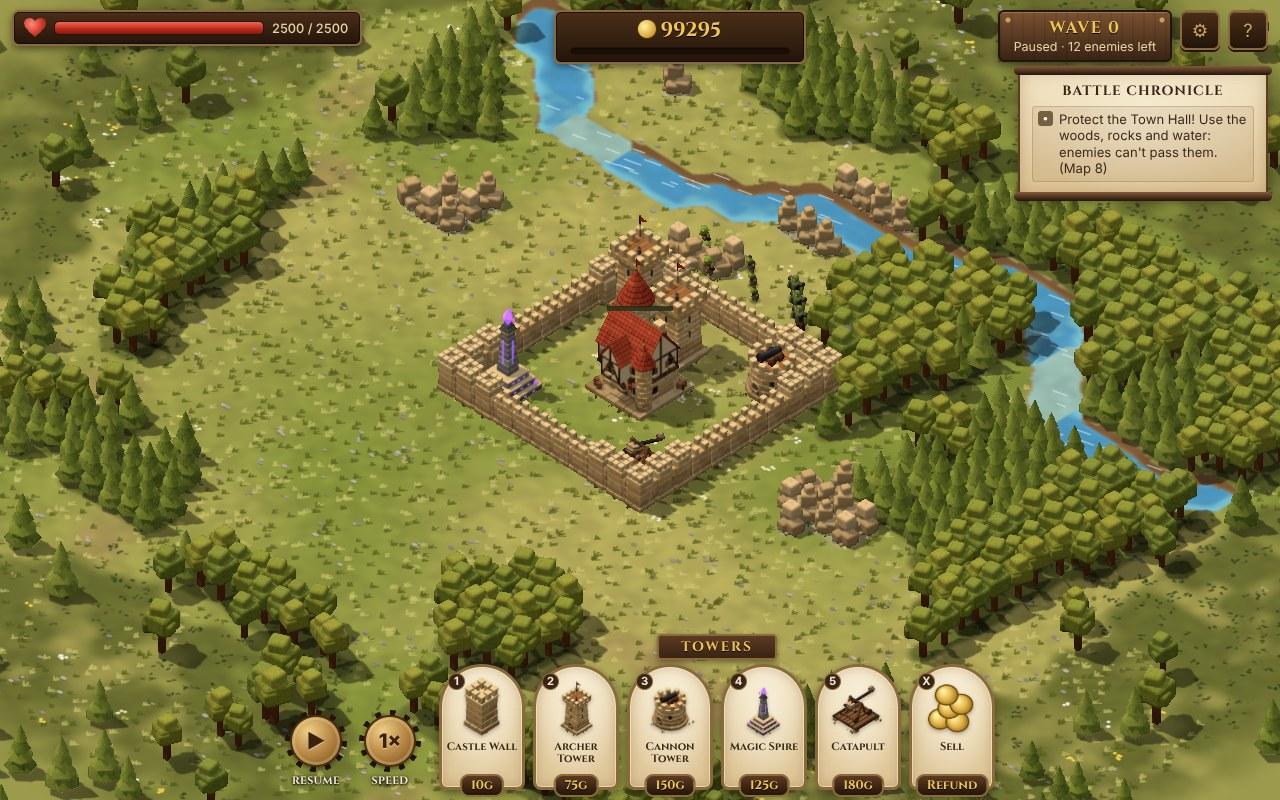
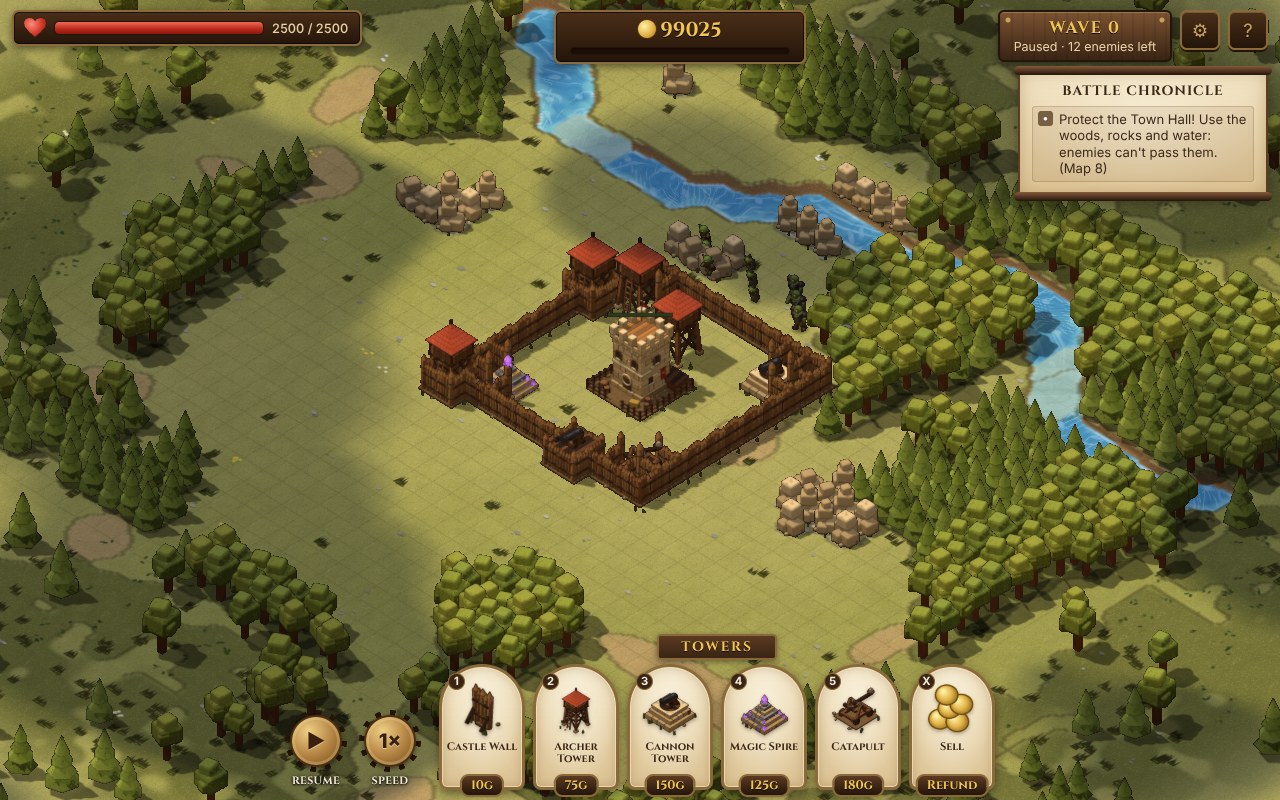
Grass after the reference: straw-olive, fine grain, faint tile grid, inked edges
The painted ground now follows the reference more closely:
- lighter, warmer straw-olive grass with only gentle large-scale variation
  (no blotchy mottling), plus a fine painted grain;
- a faint tile grid over the map, kept off the water;
- crisper forest-floor, gravel and bare-earth patches, inked where kinds of
  ground meet and along the shoreline;
- detail cut right back: dark spiky inked grass clumps gathered by woods,
  rocks and water, with flowers now rare.
README reference screenshots refreshed.

Claude-Session: https://claude.ai/code/session_013iFYB9zymLNq5vKRbhuUPS

diff --git a/src/render/terrainPainter.js b/src/render/terrainPainter.js
@@ -19,14 +19,16 @@ import { T } from '../sim/terrain.js';
 const BASE_PX = 8;
 const BANK_DEPTH = 0.45; // how far (in tiles) the far bank's wall shows above the water
 export const PAINT_BORDER = 14;
-export const OUTER_GROUND = '#9c9a4c';
+export const OUTER_GROUND = '#aaa25a';
 
+// Warm straw-olive grass like the reference, with ink for the edges between kinds of ground.
 const C = {
-  lush: [134, 146, 58],
-  dry: [178, 168, 88],
-  forestFloor: [104, 108, 46],
-  earth: [168, 140, 88],
-  gravel: [176, 162, 128],
+  lush: [158, 154, 74],
+  dry: [184, 172, 96],
+  forestFloor: [118, 116, 54],
+  earth: [190, 154, 100],
+  gravel: [182, 170, 136],
+  ink: [72, 64, 34],
   shore: [164, 140, 90],
   bankWall: [122, 88, 54],
   bankTop: [150, 112, 68],
@@ -128,6 +130,8 @@ export function paintTerrain(grid, { pxPerTile = 16, detail = 1, seed = 1, borde
   const mctx = maskCanvas.getContext('2d');
   const mask = mctx.createImageData(bw, bh);
   const col = [0, 0, 0];
+  // Per-pixel field values (after their wobble), kept to find the edges to ink afterwards.
+  const fields = { forest: new Float32Array(bw * bh), rock: new Float32Array(bw * bh), earth: new Float32Array(bw * bh), shore: new Float32Array(bw * bh) };
   for (let py = 0; py < bh; py++) {
     const v = (py + 0.5) / BASE_PX;
     const z = v - border;
@@ -136,24 +140,24 @@ export function paintTerrain(grid, { pxPerTile = 16, detail = 1, seed = 1, borde
       const x = u - border;
       const o = (py * bw + px) * 4;
 
-      // Grass: lush to dry by a broad noise, then a little fine mottling.
-      const dryness = noise.fbm(x * 0.07, z * 0.07);
+      // Grass: gently varying between lush and dry over large areas (the reference is nearly flat colour).
+      const dryness = noise.fbm(x * 0.05, z * 0.05);
       col[0] = C.lush[0];
       col[1] = C.lush[1];
       col[2] = C.lush[2];
-      mix(col, C.dry, smooth(0.38, 0.72, dryness));
+      mix(col, C.dry, smooth(0.3, 0.8, dryness) * 0.8);
       const wobble = noise.value(x * 0.85 + 11, z * 0.85 + 5) - 0.5;
       const fine = noise.value(x * 2.3, z * 2.3) - 0.5;
 
-      // Bare earth here and there (worn ground, never in lines).
-      const earth = noise.fbm(x * 0.16 + 70, z * 0.16 + 20, 2);
-      mix(col, C.earth, smooth(0.66, 0.8, earth) * 0.7);
+      // Bare earth patches here and there (worn ground, never in lines), with crisp edges.
+      const earth = noise.fbm(x * 0.16 + 70, z * 0.16 + 20, 2) + wobble * 0.04;
+      mix(col, C.earth, smooth(0.7, 0.73, earth) * 0.85);
 
       const f = sample(forest, u, v) + wobble * 0.35;
-      mix(col, C.forestFloor, smooth(0.3, 0.62, f));
+      mix(col, C.forestFloor, smooth(0.42, 0.5, f));
 
       const r = sample(rock, u, v) + wobble * 0.4;
-      mix(col, C.gravel, smooth(0.32, 0.55, r) * 0.8);
+      mix(col, C.gravel, smooth(0.4, 0.47, r) * 0.85);
 
       const w = sample(water, u, v) + wobble * 0.3;
       let m = 0;
@@ -181,8 +185,14 @@ export function paintTerrain(grid, { pxPerTile = 16, detail = 1, seed = 1, borde
         }
       }
 
-      // Light and shade mottling, then fade the border into the flat outer ground.
-      const shade = 1 + fine * 0.1 + wobble * 0.06;
+      const pi = py * bw + px;
+      fields.forest[pi] = f;
+      fields.rock[pi] = r;
+      fields.earth[pi] = earth;
+      fields.shore[pi] = w;
+
+      // A touch of light and shade, then fade the border into the flat outer ground.
+      const shade = 1 + fine * 0.04 + wobble * 0.03;
       const edge = Math.max(-x, -z, x - W, z - H);
       const fade = smooth(border - 5, border - 0.5, edge);
       col[0] *= shade;
@@ -198,6 +208,7 @@ export function paintTerrain(grid, { pxPerTile = 16, detail = 1, seed = 1, borde
       mask.data[o + 3] = m * 255;
     }
   }
+  inkEdges(img.data, fields, bw, bh, border * BASE_PX, W * BASE_PX, H * BASE_PX);
   bctx.putImageData(img, 0, 0);
   mctx.putImageData(mask, 0, 0);
 
@@ -209,18 +220,106 @@ export function paintTerrain(grid, { pxPerTile = 16, detail = 1, seed = 1, borde
   ctx.imageSmoothingEnabled = true;
   ctx.imageSmoothingQuality = 'high';
   ctx.drawImage(base, 0, 0, canvas.width, canvas.height);
-  if (detail > 0) stampDetails(ctx, { grid, noise, border, pxPerTile, detail, sample: (u, v) => sample(water, u, v) });
+  // Grain and the grid are drawn on the land only (the water is animated by the renderer).
+  landOverlay(ctx, maskCanvas, (c) => grain(c, canvas.width, canvas.height));
+  landOverlay(ctx, maskCanvas, (c) => tileGrid(c, { W, H, border, pxPerTile }));
+  if (detail > 0) {
+    const near = (u, v) => Math.max(sample(forest, u, v), sample(rock, u, v), sample(water, u, v));
+    stampDetails(ctx, { grid, noise, border, pxPerTile, detail, sample: (u, v) => sample(water, u, v), near });
+  }
 
   return { canvas, waterMask: maskCanvas, hasWater, tiles: { width: TW, height: TH }, border, noise };
 }
 
-/** Grass tufts, flowers, pebbles and leaves, stamped into the ground (they cost nothing to draw later). */
-function stampDetails(ctx, { grid, noise, border, pxPerTile, detail, sample }) {
+/**
+ * Ink where one kind of ground meets another (forest floor, gravel, bare earth, the shore): a thin dark line on
+ * the pixels where a field crosses its edge threshold, like the line work in the reference.
+ */
+function inkEdges(data, fields, bw, bh, b, mapW, mapH) {
+  const lines = [
+    [fields.forest, 0.46, 0.5],
+    [fields.rock, 0.435, 0.45],
+    [fields.earth, 0.715, 0.4],
+    [fields.shore, 0.4, 0.55],
+  ];
+  for (let y = 0; y < bh - 1; y++) {
+    for (let x = 0; x < bw - 1; x++) {
+      // No ink out in the faded border.
+      const out = Math.max(b - x, b - y, x - (b + mapW), y - (b + mapH));
+      if (out > b * 0.4) continue;
+      const i = y * bw + x;
+      let ink = 0;
+      for (const [f, t, strength] of lines) {
+        const a = f[i] > t;
+        if (a !== f[i + 1] > t || a !== f[i + bw] > t) ink = Math.max(ink, strength);
+      }
+      if (!ink) continue;
+      const o = i * 4;
+      data[o] += (C.ink[0] - data[o]) * ink;
+      data[o + 1] += (C.ink[1] - data[o + 1]) * ink;
+      data[o + 2] += (C.ink[2] - data[o + 2]) * ink;
+    }
+  }
+}
+
+/** Draw `paint` onto a layer, cut the water out of it (`waterMask`), and lay it over the ground. */
+function landOverlay(ctx, waterMask, paint) {
+  const layer = document.createElement('canvas');
+  layer.width = ctx.canvas.width;
+  layer.height = ctx.canvas.height;
+  const lc = layer.getContext('2d');
+  paint(lc);
+  lc.globalCompositeOperation = 'destination-out';
+  lc.drawImage(waterMask, 0, 0, layer.width, layer.height);
+  ctx.drawImage(layer, 0, 0);
+}
+
+/** Fine painterly grain: a small tiled speckle pattern, very faint. */
+function grain(ctx, w, h) {
+  const size = 64;
+  const tile = document.createElement('canvas');
+  tile.width = tile.height = size;
+  const t = tile.getContext('2d');
+  const rnd = createRng(0x9a1).next;
+  for (let i = 0; i < 700; i++) {
+    t.fillStyle = rnd() < 0.5 ? 'rgba(60,54,20,0.5)' : 'rgba(255,250,200,0.45)';
+    t.fillRect(Math.floor(rnd() * size), Math.floor(rnd() * size), 1, 1);
+  }
+  ctx.save();
+  ctx.globalAlpha = 0.35;
+  ctx.fillStyle = ctx.createPattern(tile, 'repeat');
+  ctx.fillRect(0, 0, w, h);
+  ctx.restore();
+}
+
+/** The faint tile grid over the map, as in the reference. */
+function tileGrid(gc, { W, H, border, pxPerTile }) {
+  gc.strokeStyle = 'rgba(80,72,30,0.16)';
+  gc.lineWidth = Math.max(1, pxPerTile / 24);
+  gc.beginPath();
+  for (let i = 0; i <= W; i++) {
+    const x = (border + i) * pxPerTile;
+    gc.moveTo(x, border * pxPerTile);
+    gc.lineTo(x, (border + H) * pxPerTile);
+  }
+  for (let i = 0; i <= H; i++) {
+    const y = (border + i) * pxPerTile;
+    gc.moveTo(border * pxPerTile, y);
+    gc.lineTo((border + W) * pxPerTile, y);
+  }
+  gc.stroke();
+}
+
+/**
+ * Grass clumps, pebbles, leaves and the odd flower, stamped into the ground (they cost nothing to draw later).
+ * Like the reference, detail is sparse and gathers by woods, rocks and water (`near`) rather than spreading evenly.
+ */
+function stampDetails(ctx, { grid, noise, border, pxPerTile, detail, sample, near }) {
   const rnd = createRng(0x7e57).next;
   const { width: W, height: H } = grid;
   const s = pxPerTile / 16; // stamp scale
   const terrainAt = (x, z) => (grid.inBounds(Math.floor(x), Math.floor(z)) ? grid.terrain[Math.floor(z) * W + Math.floor(x)] : -1);
-  const count = Math.round((W + border) * (H + border) * 3.2 * detail);
+  const count = Math.round((W + border) * (H + border) * 1.2 * detail);
   for (let i = 0; i < count; i++) {
     const x = rnd() * (W + 2 * border - 4) - border + 2;
     const z = rnd() * (H + 2 * border - 4) - border + 2;
@@ -239,27 +338,37 @@ function stampDetails(ctx, { grid, noise, border, pxPerTile, detail, sample }) {
       pebbles(ctx, px, py, s, rnd, 3);
       continue;
     }
-    const meadow = noise.fbm(x * 0.12 + 40, z * 0.12 + 90, 2);
-    if (kind < 0.8) tuft(ctx, px, py, s, rnd);
-    else if (kind < 0.8 + 0.08 * smooth(0.5, 0.7, meadow)) flowers(ctx, px, py, s, rnd);
-    else if (kind < 0.9) pebbles(ctx, px, py, s, rnd, 1 + Math.floor(rnd() * 2));
+    // Open grass: mostly bare; clumps gather near features.
+    const by = smooth(0.15, 0.45, near(x + border, z + border));
+    if (kind < 0.04 + 0.5 * by) clump(ctx, px, py, s, rnd);
+    else if (kind < 0.6 && kind > 0.585) flowers(ctx, px, py, s, rnd);
+    else if (kind > 0.95) pebbles(ctx, px, py, s, rnd, 1 + Math.floor(rnd() * 2));
   }
 }
 
-function tuft(ctx, x, y, s, rnd) {
-  const blades = 3 + Math.floor(rnd() * 3);
-  const dark = rnd() < 0.6;
-  ctx.strokeStyle = dark ? 'rgba(86,92,30,0.75)' : 'rgba(206,196,112,0.65)';
-  ctx.lineWidth = Math.max(1, 1.1 * s);
-  ctx.lineCap = 'round';
-  ctx.beginPath();
-  for (let b = 0; b < blades; b++) {
-    const a = -Math.PI / 2 + (b / (blades - 1) - 0.5) * 1.3 + (rnd() - 0.5) * 0.3;
-    const len = (2.5 + rnd() * 2.5) * s;
-    ctx.moveTo(x, y);
-    ctx.lineTo(x + Math.cos(a) * len, y + Math.sin(a) * len);
+/** A spiky clump of dark grass with a thin ink outline (2–3 tufts together). */
+function clump(ctx, x, y, s, rnd) {
+  const tufts = 2 + Math.floor(rnd() * 2);
+  for (let t = 0; t < tufts; t++) {
+    const cx = x + (rnd() - 0.5) * 7 * s;
+    const cy = y + (rnd() - 0.5) * 4 * s;
+    const blades = 4 + Math.floor(rnd() * 3);
+    const h = (4 + rnd() * 3) * s;
+    ctx.beginPath();
+    ctx.moveTo(cx - 2.6 * s, cy);
+    for (let b = 0; b < blades; b++) {
+      const bx = cx - 2.6 * s + ((b + 0.5) / blades) * 5.2 * s;
+      ctx.lineTo(bx + (rnd() - 0.5) * 1.6 * s, cy - h * (0.6 + rnd() * 0.4));
+      ctx.lineTo(bx + 0.5 * s, cy - h * 0.2);
+    }
+    ctx.lineTo(cx + 2.6 * s, cy);
+    ctx.closePath();
+    ctx.fillStyle = rnd() < 0.5 ? '#5e6a24' : '#6c7a2a';
+    ctx.fill();
+    ctx.strokeStyle = 'rgba(48,42,20,0.8)';
+    ctx.lineWidth = Math.max(0.8, 0.7 * s);
+    ctx.stroke();
   }
-  ctx.stroke();
 }
 
 function flowers(ctx, x, y, s, rnd) {

diff --git a/docs/GAME_DESIGN.md b/docs/GAME_DESIGN.md
@@ -133,8 +133,8 @@ selected building. (The reference's Upgrade button and spells arrive with those 
 
 Warm, storybook medieval: sandstone blocks, red clay roofs, half-timbered plaster, chunky crenellations,
 green goblins and orcs, grey trolls. Terrain follows the reference's environment sheet: blocky olive oaks and
-stepped pines, big flat-faced pale sandstone boulders, warm olive-yellow grass with dark grass strokes and few
-flowers, bright turquoise water sunk below the grass with a brown earth bank on the far side, and strong dark
+stepped pines, big flat-faced pale sandstone boulders, light straw-olive grass that's nearly flat colour with a fine painted grain, a faint tile grid over the
+map, ink lines where kinds of ground meet, sparse dark grass clumps gathered by woods, rocks and water, bright turquoise water sunk below the grass with a brown earth bank on the far side, and strong dark
 ground shadows. Sprites get a hand-drawn finish when baked: warm dark-brown ink outlines and inner lines, shading
 pulled into soft bands, and light hatching in the shadows. Cloud shadows drift across the battlefield, and streams flow, with foam streaks running downstream round their
 bends (lakes glint but stay still).
